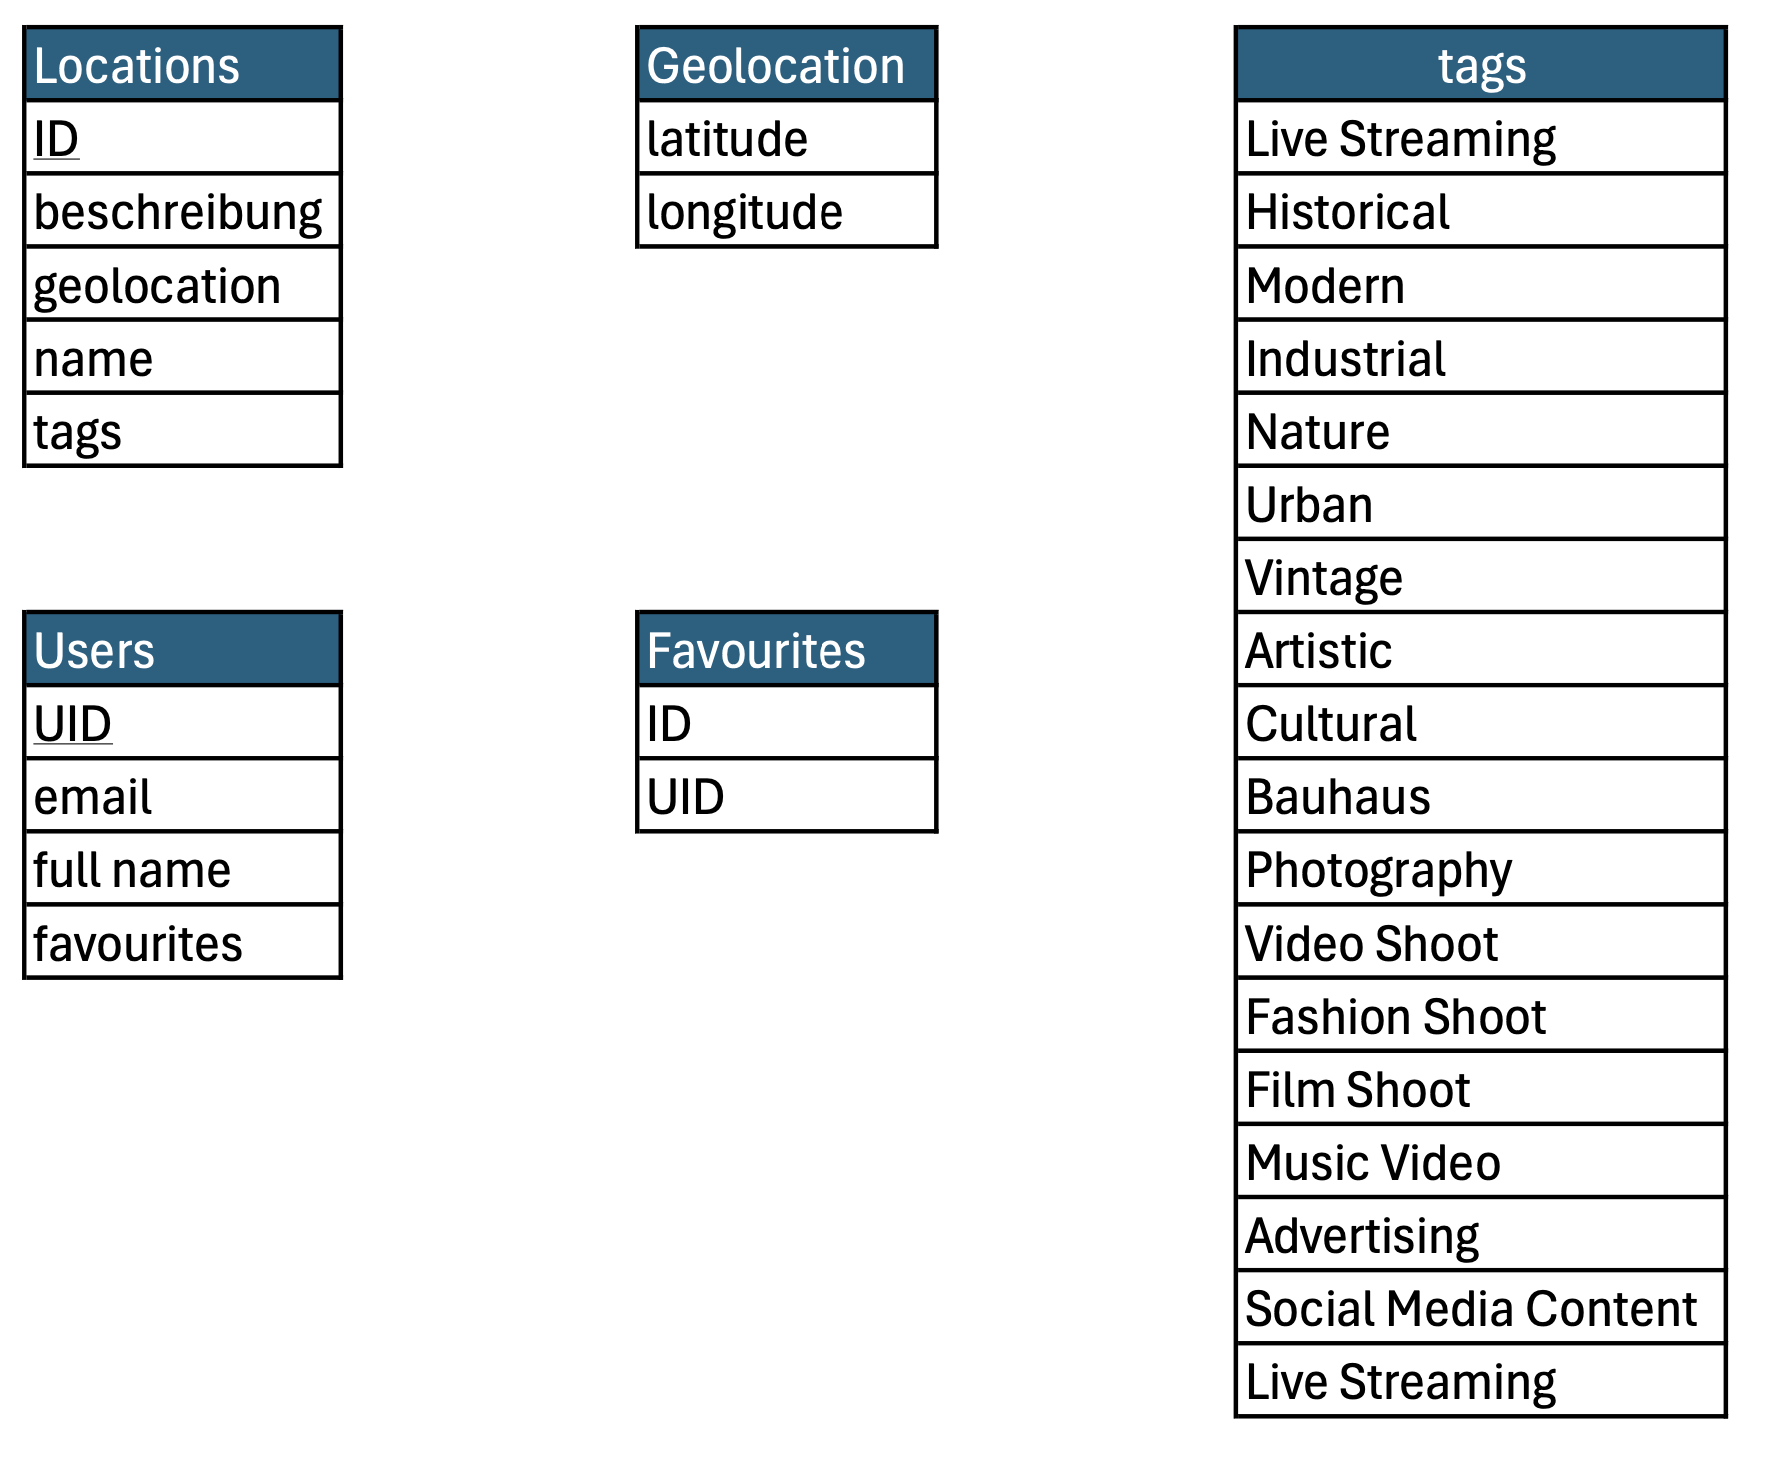
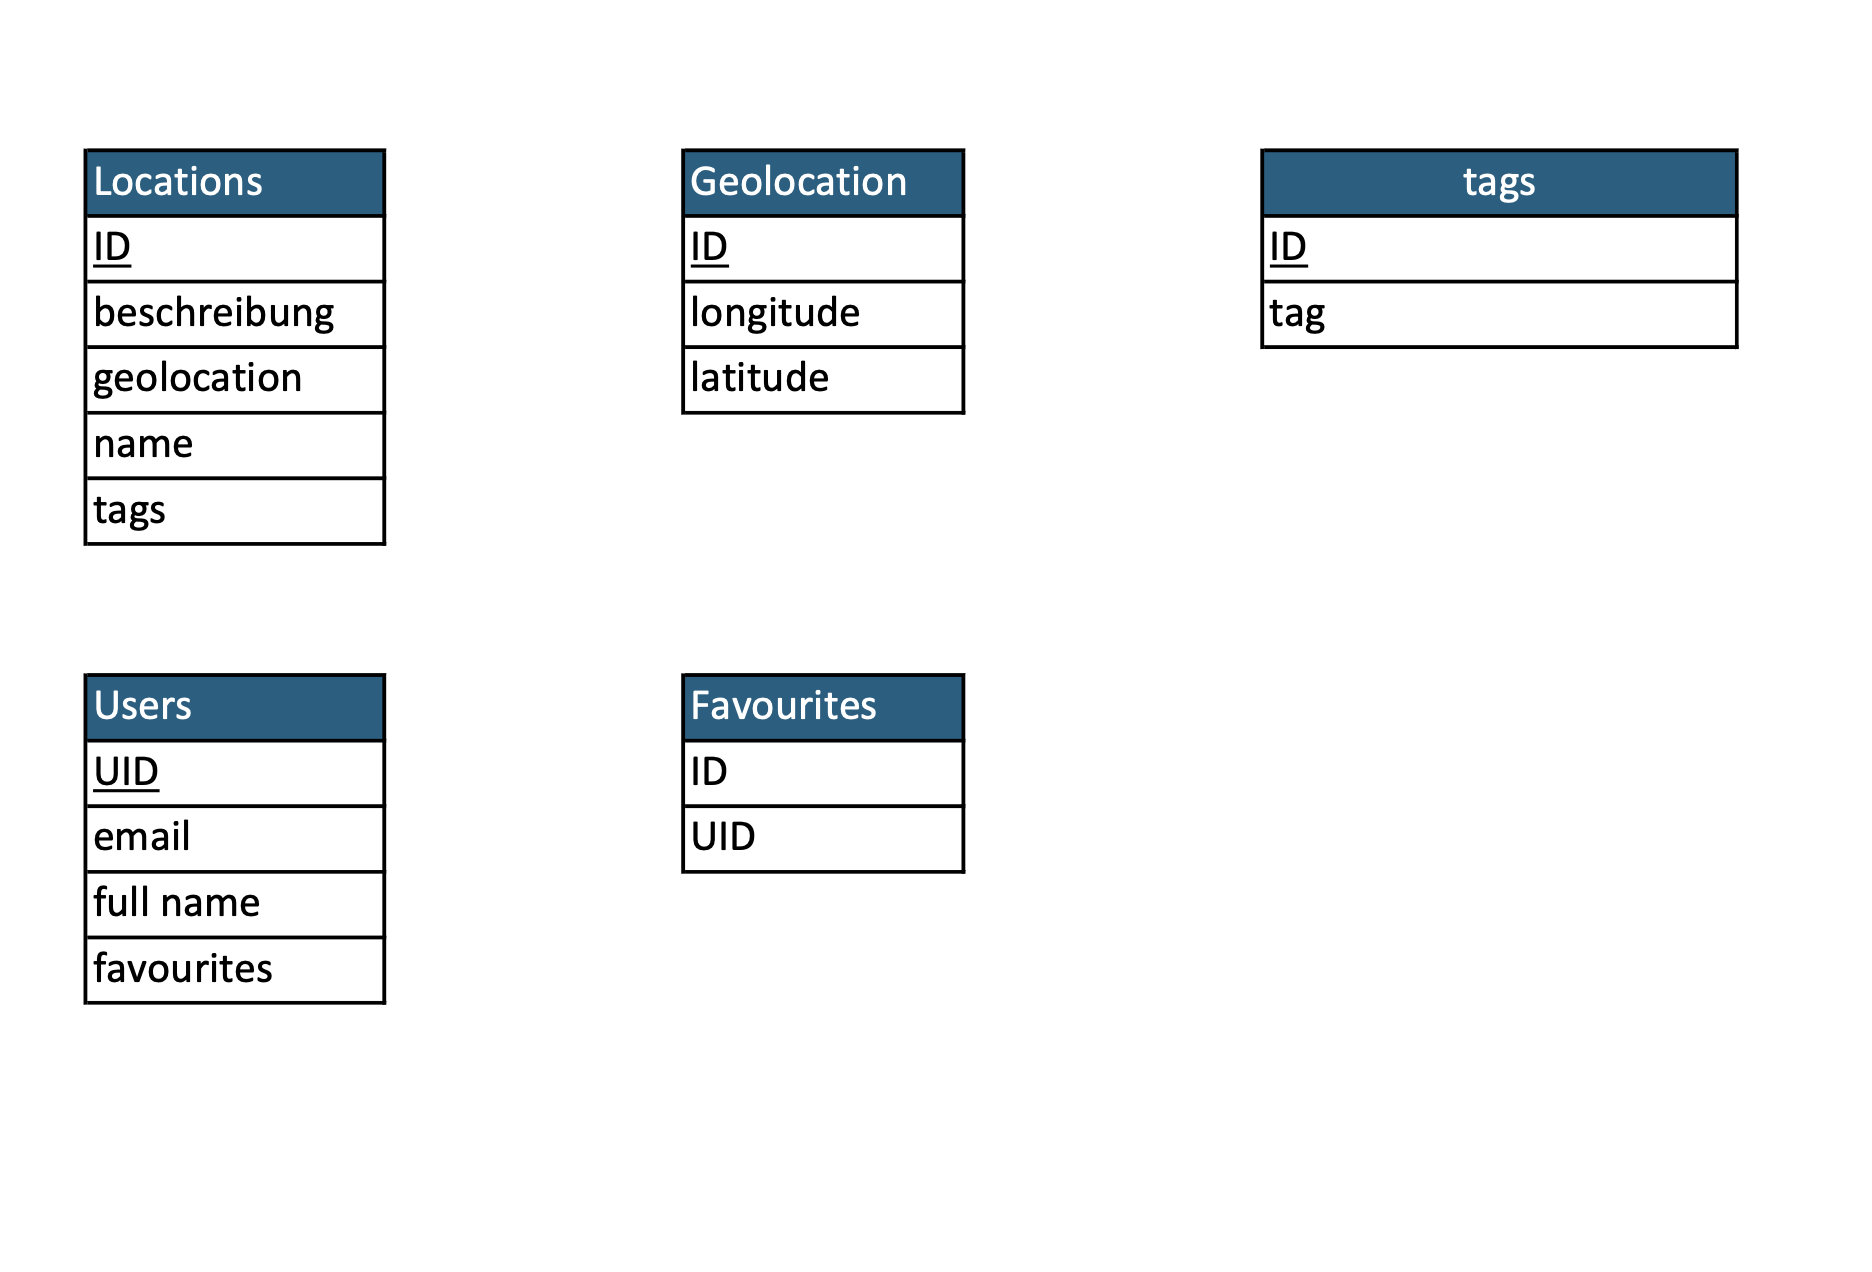
YALLAA

diff --git a/datamodel.html b/datamodel.html
@@ -90,8 +90,16 @@
     <div class="container">
         <h2>Realtime Database</h2>
         <img src="Realtime Database.png" alt="Realtime Database">
+        <p><strong>Firebase Ordner:</strong></p>
+        <p>Location: #ID, beschreibung, geolocation, name, tags</p>
+        <p>Geolocation: ID&lt;fk&gt;latitude, longitude.</p>
+        <p>tags: ID&lt;fk&gt;, tag</p>
         
-        <h2>Authentication</h2>
+        <p></p>
+        <p>Users: #UID, email, full_name, favourites</p>
+        <p>favourites: ID&lt;fk&gt;, UID&lt;fk&gt;</p>
+        <h2><strong>Authentication</strong></h2>
+        <p>Nutzer: #UID&lt;fk&gt;, email, password</p>
         <img src="Auth.png" alt="Authentication">
     </div>
 </body>
